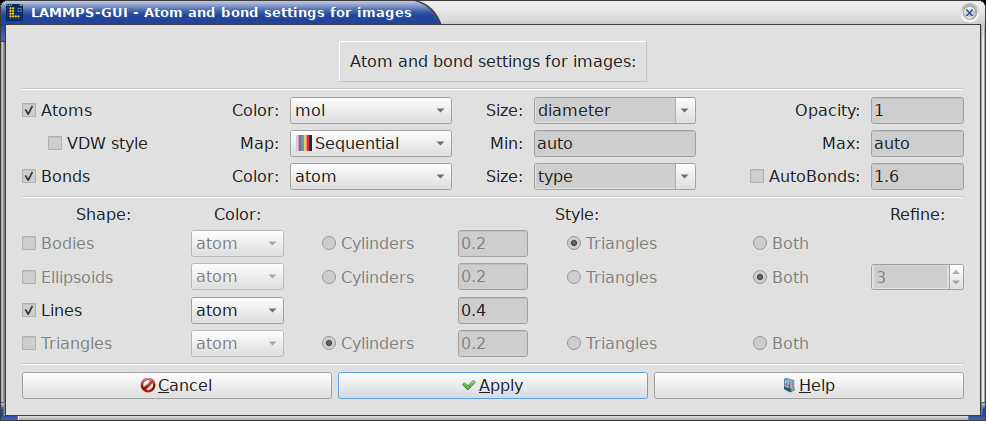
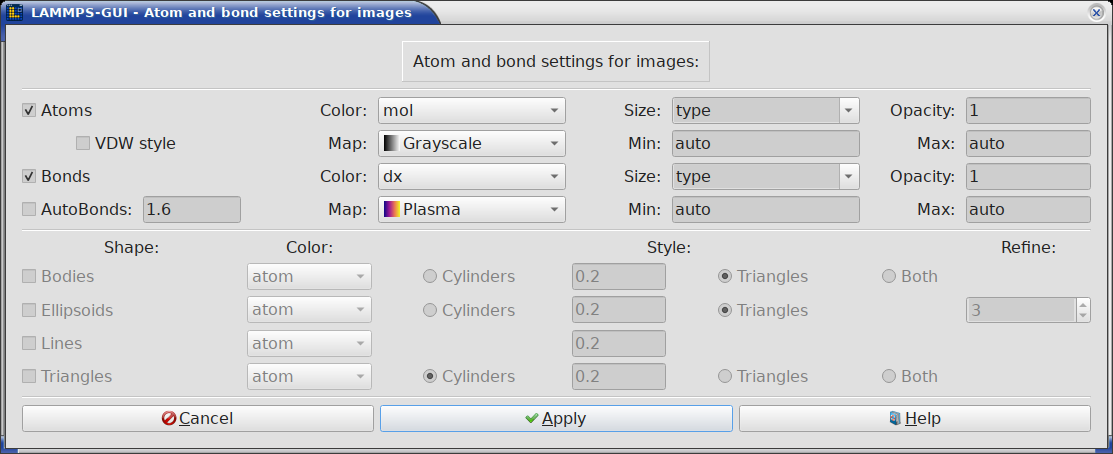
docs: document bond color-by-value, bond color map, and bond opacity
Update the Atoms/bonds settings section of the visualization guide for the new
bond rendering options: the bond Color selector now also lists the
compute bond/local attributes (dist, dx/dy/dz, engpot, force, fx/fy/fz, ...)
for coloring bonds by a per-bond value, with a dedicated bond color Map / Min /
Max row, and bonds now have their own Opacity independent of the atoms'. Adjust
the atom Opacity wording accordingly and refresh the atom/bond settings dialog
screenshot.

diff --git a/doc/visualization.rst b/doc/visualization.rst
@@ -461,8 +461,9 @@ The dialog contains the following sections:
      available), *type*, *element*, and a few pre-defined choices for
      custom atom diameters.  The text field can be edited and a
      different custom diameter entered.
-   - **Opacity**: The transparency of atoms *and* bonds (range: 0.0 --
-     1.0, where 1.0 is fully opaque and 0.0 is fully transparent).
+   - **Opacity**: The transparency of atoms (range: 0.0 -- 1.0, where 1.0
+     is fully opaque and 0.0 is fully transparent).  Bonds have their own
+     Opacity setting in the **Bonds** section below.
    - **VDW style** (checkbox): Enable or disable space-filling sphere
      rendering.  When unchecked, the ball-and-stick style is used.
    - **Colormap**: Select the colormap used for coloring by a per-atom
@@ -491,12 +492,21 @@ The dialog contains the following sections:
    - **Bonds** (checkbox): Enable or disable bond rendering.  This
      option is only available when the atom style supports explicit
      bonds.
-   - **Color**: Select bond coloring mode -- *atom* (colored by the
-     atom type at each end) or *type* (uniform color per bond type).
+   - **Color**: Select the bond coloring mode.  The basic choices are
+     *atom* (each bond half is colored by the atom type at its end) and
+     *type* (a uniform color per bond type).  The list also offers a set
+     of per-bond properties computed by ``compute bond/local`` -- *dist*,
+     *dx*, *dy*, *dz*, *engpot*, *force*, *fx*, *fy*, *fz*, *engvib*,
+     *engrot*, *engtrans*, *omega*, and *velvib*.  Selecting one of these
+     colors the bonds by that per-bond value using the bond colormap (see
+     **Map** below); LAMMPS-GUI creates the required ``compute
+     bond/local`` automatically.
    - **Size**: Select bond diameter mode.  Options include *atom*,
      *type*, and a few pre-defined choices for custom bond diameters.
      The text field can be edited and a different custom diameter
      entered.
+   - **Opacity**: The transparency of bonds (range: 0.0 -- 1.0), set
+     independently from the atom opacity.
    - **AutoBonds** (checkbox): Automatically determine bonds from atom
      distances, useful for many-body force fields with implicit bonds
      like `AIREBO <https://docs.lammps.org/pair_airebo.html>`_ or
@@ -507,8 +517,14 @@ The dialog contains the following sections:
      the `special_bonds settings
      <https://docs.lammps.org/special_bonds.html>`_
    - **Cutoff**: The distance cutoff used for automatic bond detection
-     (range: 0.001 -- 10.0 in distance units).  Only available when
-     auto-bonds are enabled.
+     (range: 0.001 -- 10.0 in distance units), in the text field next to
+     the AutoBonds checkbox.  Only available when auto-bonds are enabled.
+   - **Map** / **Min** / **Max**: Select the colormap and value range
+     used when coloring bonds by a per-bond value (see **Color** above).
+     The same colormaps as the atom **Colormap** are offered, and these
+     fields are only enabled when a per-bond property is selected as the
+     bond color.  Use *auto* for **Min** / **Max** to let LAMMPS
+     determine the range automatically.
 
 **Bodies**
    Controls visualization of `body particles